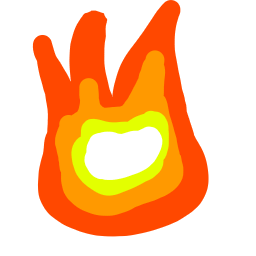
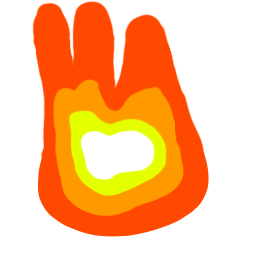
done

diff --git a/kalenderlys/sketch.js b/kalenderlys/sketch.js
@@ -1,22 +1,27 @@
 
 const screen_size = 600;
 const height = 400;
-const width = 80;
-let pos, fire, candle, numb, table;
+const width = 65;
+let pos, fire, candle, numb, table, wall, tree, outside;
 let fireI = [];
 let snowflakes = [];
 let auto = true;
 let is_december = true;
-
+let christmas_day = false;
 
 function preload() {
+  outside = loadImage("./assets/outside.png")
+  tree = loadImage("./assets/tree.png")
+  wall = loadImage("./assets/background.png")
   table = loadImage("./assets/table.png");
   fireI[0] = loadImage("./fire/1.png");
   fireI[1] = loadImage("./fire/2.png");
+  fireI[2] = loadImage("./fire/3.png");
 }
 
+
 function calculate_left() {
-  return ((day()-1)*24+hour()+1)/(24*24);
+  return ((day()-1)*24+hour()-4)/(24*24);
 }
 
 
@@ -27,8 +32,8 @@ function setup() {
   if (month() != 12) {
     is_december = false;
   } else {
-    for (let i = 0; i < 100; i++) {
-      snowflakes.push(new snowflake()); // append snowflake object
+    for (let i = 0; i < 300; i++) {
+      snowflakes.push(new snowflake()); 
     }
   
   }
@@ -36,7 +41,7 @@ function setup() {
 }
 
 
-// this function takes the value of the slider and calculates 
+// this function takes the value of the slider and calculates  it to prx and burns the candle if its set to manual
 function dom() {
   document.getElementById("val").innerHTML =  String(auto) +" | "+ document.getElementById("slider").value/1000;
   candle.burn(document.getElementById("slider").value/1000);
@@ -67,14 +72,15 @@ function S_not_december() {
 
 function S_candle_scene() {
   background("#001A45");
-  
-  // loop through snowflakes with a for..of loop
+
+  image(outside,screen_size/2,screen_size/2,screen_size,screen_size)
   for (let flake of snowflakes) {
-    flake.update(); // update snowflake position
-    flake.display(); // draw snowflake
+    flake.update(); 
+    flake.display();
   }
-  image(table,300,600,400,100)
-  
+  image(wall,screen_size/2,screen_size/2,screen_size,screen_size)
+  image(table,300,600,550,150)
+  image(tree,150,450,200,200)
   candle.draw1();
   numb.draw();
   candle.draw2();
@@ -98,12 +104,14 @@ class candleC {
     this.candle_h = height;
     this.pos = pos;
     this.og_y = 200;
-    fire = new animation(this.pos.x,screen_size-this.height,fireI);
+    fire = new animation(this.pos.x,screen_size-this.height,fireI,9);
   
   }
   burn = (prc) => {
-    if (prc > 0.97) {
-      print("It's Christmas")
+    if (prc > 0.93) {
+      fill(20)
+      textSize(80)
+      text("It's December!!",screen_size/2,screen_size/2-100)
     }
     if (this.pos.y < screen_size-30) {
       this.pos.y = this.og_y+this.height*prc;
@@ -125,7 +133,7 @@ class candleC {
   draw2 = () => {
     fill("#604C32");
     rect(this.pos.x-7.5,this.pos.y-40,15,40);
-    fire.move(this.pos.x,this.pos.y-50)
+    fire.move(this.pos.x,this.pos.y-60)
     fire.update();
   }
 }
@@ -161,8 +169,7 @@ class numbers {
 
 
 
-class snowflake {
-  // initialize coordinates
+class snowflake { 
   constructor() {
     this.posX = random(0,screen_size+200);
     this.posY = random(0,screen_size);
@@ -171,13 +178,10 @@ class snowflake {
   }
   update = () => {
     fill(255,255,255,random(200,250))
-    // x position follows a circle
-    this.posX += random(-2,1)
+    this.posX += random(-2.00,0.50)
 
-    // different size snowflakes fall at slightly different y speeds
-    this.posY += random(0.8,1.1)
+    this.posY += random(3,4)
 
-    // delete snowflake if past end of screen
     if (this.posY > screen_size) {
       this.posY = 0
       this.posX = random(0,screen_size+200);
